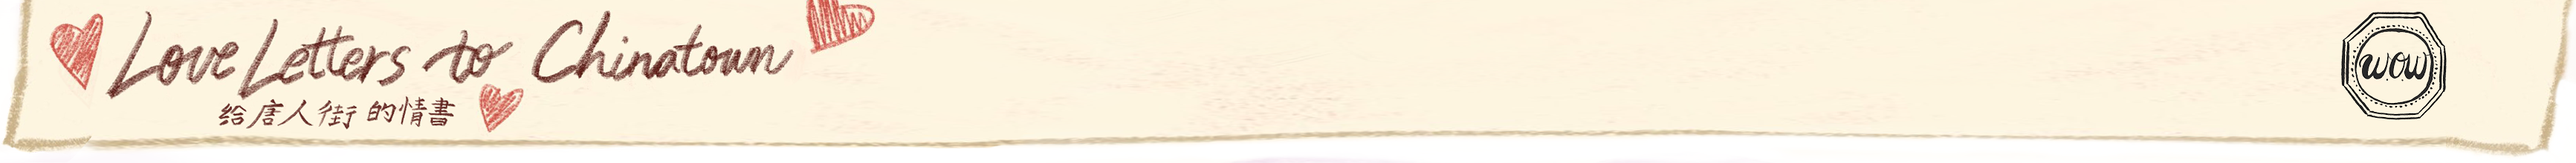
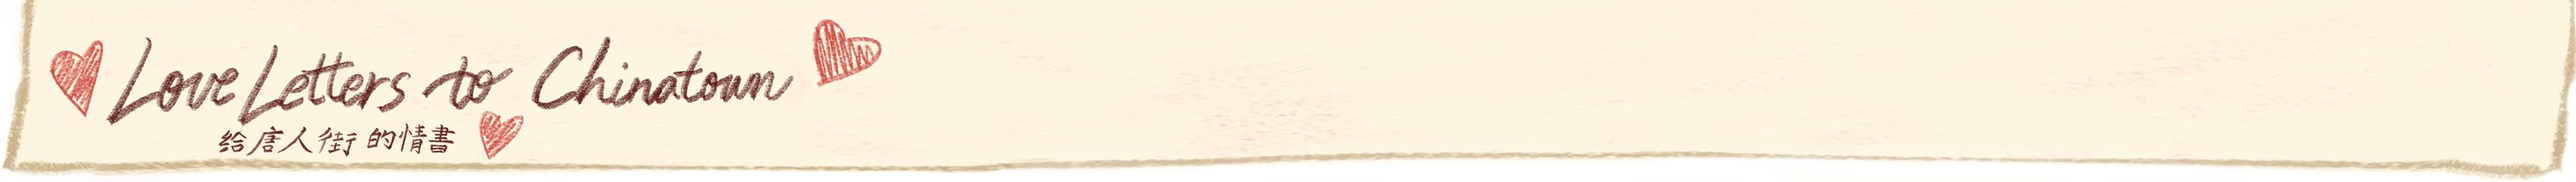
A working draft with the hand-drawn top bar

Changed region(s): [[0.0, 0.0, 1.0, 0.9818]]

diff --git a/js/WOWscript.js b/js/WOWscript.js
@@ -68,6 +68,7 @@ var myPoints = {
     "titleL":"Chinatown",
     "name":"Jade Song",
     "photo":"images/wow_mottpell_E.jpg",
+    "photoPost":"images/wow_tantinhung_P.jpg",
     "year":"2020",
     "address":"123 Bowery 2nd fl, New York, NY 10002",
     "siteType":"Letter",
@@ -84,6 +85,7 @@ var myPoints = {
     "titleL":"Magic Jewelry",
     "name":"Lindsey Keeler",
     "photo":"images/wow_magicjewelry_E.jpg",
+    "photoPost":"images/wow_tantinhung_P.jpg",
     "year":"2020",
     "address":"238 Canal St #108, New York, NY 10013, USA",
     "siteType":"Letter",
@@ -100,6 +102,7 @@ var myPoints = {
     "titleL":"Tan Tin Hung",
     "name":"Parker Limon",
     "photo":"images/wow_tantinhung_E.jpg",
+    "photoPost":"images/wow_tantinhung_P.jpg",
     "year":"2020",
     "address":"121 Bowery, New York, NY 10002, USA",
     "siteType":"Letter",
@@ -132,6 +135,7 @@ var myPoints = {
     "titleL":"Xin Zhong Shen Market",
     "name":"Ying Cai2",
     "photo":"images/wow_xinzhongshen_E.jpg",
+    "photoPost":"images/wow_tantinhung_P.jpg",
     "year":"2020",
     "address":"109 E Broadway, New York, NY 10002 USA",
     "siteType":"Letter",
@@ -164,6 +168,7 @@ var myPoints = {
     "titleL":"Good Century Cafe",
     "name":"Rachel Skipor",
     "photo":"images/wow_goodcenturycafe_E.jpg",
+    "photoPost":"images/wow_tantinhung_P.jpg",
     "year":"2020",
     "address":"243 Grand St, New York, NY 10002 USA",
     "siteType":"Letter",
@@ -292,6 +297,7 @@ var myPoints = {
     "titleL":"Kam Hing",
     "name":"King Saturday",
     "photo":"images/wow_kamhing_E.jpg",
+    "photoPost":"none",
     "year":"2020",
     "address":"118 Baxter St, New York, NY 10013",
     "siteType":"Letter",
@@ -308,6 +314,7 @@ var myPoints = {
     "titleL":"Kam Hing",
     "name":"Aaron Reiss",
     "photo":"images/wow_AaronReiss_E.jpg",
+    "photoPost":"images/wow_tantinhung_P.jpg",
     "year":"2020",
     "address":"118 Baxter St, New York, NY 10013",
     "siteType":"Letter",
@@ -340,6 +347,7 @@ var myPoints = {
     "titleL":"New Shanghai Deluxe",
     "name":"Michelle Ling",
     "photo":"images/wow_shanghaideluxe_C.jpg",
+    "photoPost":"images/wow_tantinhung_P.jpg",
     "year":"2020",
     "address":"50 Mott St, New York, NY 10013",
     "siteType":"Letter",
@@ -388,6 +396,7 @@ var myPoints = {
     "titleL":"Chinatown Ice Cream Factory",
     "name":"Jenny Chang",
     "photo":"images/wow_icecreamfactory2_C.jpg",
+    "photoPost":"images/wow_tantinhung_P.jpg",
     "year":"2020",
     "address":"65 Bayard St, New York, NY 10013",
     "siteType":"Letter",
@@ -664,6 +673,7 @@ $(document).ready(function() {
 var modal = document.getElementById("myModal");
 var img = document.getElementById("myImg");
 var modalImg = document.getElementById("img01");
+var modalImgP = document.getElementById("img02");
 var captionText = document.getElementById("caption");
 var captionTitle = document.getElementById("captionTitle");
 var translationText = document.getElementById("translationM");
@@ -705,10 +715,18 @@ function makeMarkers(feature, layer) {
     //Create Modal
       modal.style.display = "block";
       modalImg.src = this.feature.properties.photo;
+      modalImgP.src = this.feature.properties.photoPost;
       captionTitle.innerHTML = "A Love Letter to " + this.feature.properties.titleL;
       captionText.innerHTML = "by " + this.feature.properties.name + "</br> Year Posted: " + this.feature.properties.year+ "</br> Address: " + this.feature.properties.address;
       translationText.innerHTML = "<center>" + "<strong>" + "Translations / " + "</strong>" + "翻譯" + " </center>" + "</br>" + this.feature.properties.translation;
-      console.log(modalImg.src);
+      // console.log (this.feature.properties.photoPost);
+      console.log(modalImgP.src);
+      if (modalImgP.src = "http://localhost:8000/undefined"){
+        document.getElementById("img02").style.display = "none";
+      }
+      else {
+        document.getElementById("img02").style.display = "block";
+      }
 	});
 }; 
 

diff --git a/css/WOWstyle.css b/css/WOWstyle.css
@@ -49,19 +49,21 @@ span{
 }
 
 #hand1{
-    width: 292px;
+    width: 219px;
     float: left;
     z-index: 20000;
     position: absolute;
-    top: 84px;
+    top: 131px;
+    pointer-events:none;
  }
 
 #hand2{
-    width: 300px;
+    width: 260px;
     right: 56px;
     z-index: 20000;
     position: absolute;
     bottom: 0px;
+    pointer-events:none;
  }
 
  #paper{
@@ -87,13 +89,13 @@ span{
 	height: 107px;
 	width: 65%;
 	z-index: 400;
-  background: #E1C451;
-  box-shadow: 10px 10px #952522;
-	display: flex;
-  align-items: center;
-  margin-top: 20px;
-  margin-bottom: 10px;
-  justify-content: center;
+  	background: #E1C451;
+ 	 box-shadow: 10px 10px #952522;
+  	display: flex;
+  	align-items: center;
+  	margin-top: 20px;
+  	margin-bottom: 10px;
+  	justify-content: center;
 
 }
 
@@ -102,12 +104,17 @@ span{
 		font-size: 50px;
 		text-align: center;
 		color: white;
-    text-shadow: 4px 4px palevioletred;
+    	text-shadow: 4px 4px palevioletred;
 	}
 
   #wowLogo {
-    width: 90px;
-    padding-left: 43px;
+    width: 6vw;
+    height: 9vh;
+    /*border: 1px solid #000;*/
+    position: absolute;
+    right: 2vw;
+    top: 4vh;
+    z-index: 601;
   }
 
 	#controls {

diff --git a/index.html b/index.html
@@ -24,7 +24,10 @@
 
 <div id="pageWrapper">
 
-<div><img id="paper" src="images/header3.png"></img></div>
+	<div><img id="paper" src="images/header6.png"></img></div>
+	<a href="https://www.wingonwoand.co/love-letters-to-chinatown" target="_blank">
+	<div id="wowLogo"></div></a>
+
 
 	<!-- <div id="expBarWrapper">
 		
@@ -62,6 +65,9 @@
 
   <!-- Modal Image -->
   <img class="modal-content" id="img01"> 
+
+   <!-- Modal Image Posting-->
+  <img class="modal-content" id="img02"> 
 
   <!-- Modal Translation -->
   <div id="translationM"></div>
